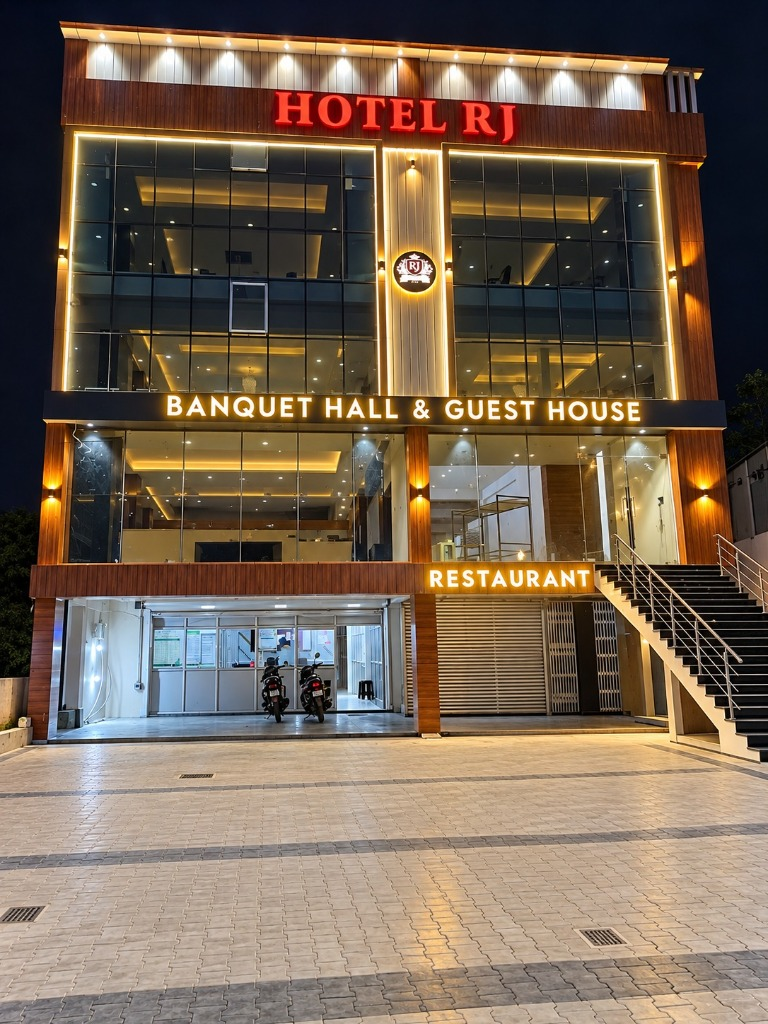
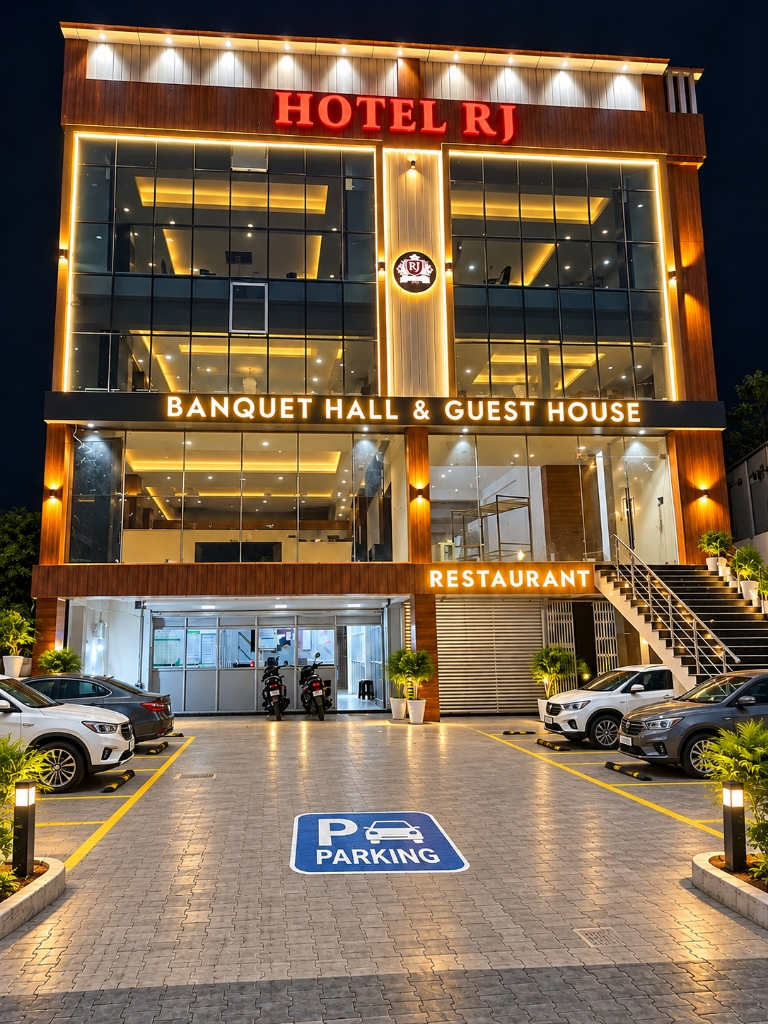
feat: update secure parking amenity and exterior with authentic parking lot photo

diff --git a/src/data/hotelData.ts b/src/data/hotelData.ts
@@ -155,7 +155,7 @@ export const AMENITIES: AmenityHighlight[] = [
     description: 'Spacious on-site parking monitored 24/7 with CCTV surveillance and security staff, providing peace of mind for highway travelers and banquet guests.',
     category: 'service',
     iconName: 'Compass',
-    imageUrl: './images/hotel-rj-exterior-front.jpg',
+    imageUrl: './images/hotel-rj-parking.jpg',
     colSpan: 'md:col-span-1 md:row-span-1',
   },
   {
